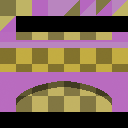
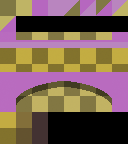
stripped some former updates, decided on a fast impl

diff --git a/sdk/examples/sandwich/sandwich_map.py b/sdk/examples/sandwich/sandwich_map.py
@@ -97,9 +97,6 @@ class Map:
 		for i,npc in enumerate(self.list_triggers_of_type(TRIGGER_NPC)):
 			npc.index = i
 			self.npc_dict[npc.id] = npc
-		for i,trapdoor in enumerate(self.list_triggers_of_type(TRIGGER_TRAPDOOR)):
-			trapdoor.index = i
-			self.trapdoor_dict[trapdoor.id] = trapdoor
 		self.doors = [Door(r) for r in self.rooms if r.portals[0] == PORTAL_DOOR]
 		for i,d in enumerate(self.doors):
 			d.index = i
@@ -163,8 +160,8 @@ class Map:
 		
 		if len(self.trapdoor_dict) > 0:
 			src.write("static const Trapdoordata %s_trapdoors[] = { " % self.id)
-			for trapdoor in self.list_triggers_of_type(TRIGGER_TRAPDOOR):
-				trapdoor.write_npc_to(src)
+			for trapdoor in self.trapdoor_dict.itervalues():
+				assert false, "dont have data yet"
 			src.write("};\n")
 		
 		if len(self.doors) > 0:

diff --git a/sdk/examples/sandwich/sandwich_trigger.py b/sdk/examples/sandwich/sandwich_trigger.py
@@ -5,12 +5,12 @@ EXP_LOCATION = re.compile(r"^(\d+),(\d+)$")
 TRIGGER_GATEWAY = 0
 TRIGGER_ITEM = 1
 TRIGGER_NPC = 2
-TRIGGER_TRAPDOOR = 3
+#TRIGGER_TRAPDOOR = 3
 KEYWORD_TO_TRIGGER_TYPE = {
 	"gateway": TRIGGER_GATEWAY,
 	"item": TRIGGER_ITEM,
-	"npc": TRIGGER_NPC,
-	"trapdoor": TRIGGER_TRAPDOOR
+	"npc": TRIGGER_NPC
+#	"trapdoor": TRIGGER_TRAPDOOR
 }
 
 
@@ -110,10 +110,5 @@ class Trigger:
 		self.write_trigger_to(src)
 		x,y = self.local_position()
 		src.write(", 0x%x, 0x%x, 0x%x }, " % (self.dialog.index, x, y))
-	
-	def write_trapdoor_to(self, src):
-		src.write("{ ")
-		self.write_trigger_to(src)
-		src.write(", 0x%x }, " % (self.respawnRoomId))
 
 

diff --git a/sdk/examples/sandwich/Map.cpp b/sdk/examples/sandwich/Map.cpp
@@ -32,10 +32,7 @@ void Map::SetData(const MapData& map) {
       }
     }
     for(const TrapdoorData* p = mData->trapdoors; p != mData->trapdoors + mData->trapdoorCount; ++p) {
-      if (pGame->GetState()->IsActive(p->trigger)) {
-        ASSERT(!mRooms[p->trigger.room].HasTrigger());
-        mRooms[p->trigger.room].SetTrigger(TRIGGER_TRAPDOOR, &p->trigger);
-      }
+      // TODO
     }
     for(const DiagonalSubdivisionData* p = mData->diagonalSubdivisions; p != mData->diagonalSubdivisions+mData->diagonalSubdivisionCount; ++p) {
       mRooms[p->roomId].SetDiagonalSubdivision(p);

diff --git a/sdk/examples/sandwich/Content.h b/sdk/examples/sandwich/Content.h
@@ -16,8 +16,7 @@ using namespace Sifteo;
 #define TRIGGER_GATEWAY     1
 #define TRIGGER_ITEM        2
 #define TRIGGER_NPC         3
-#define TRIGGER_TRAPDOOR    4
-#define TRIGGER_TYPE_COUNT  5
+#define TRIGGER_TYPE_COUNT  4
 
 #define SUBDIV_NONE         0
 #define SUBDIV_DIAG_POS     1
@@ -75,7 +74,8 @@ struct NpcData {
 };
 
 struct TrapdoorData {
-    TriggerData trigger;
+    uint8_t x : 4;
+    uint8_t y : 4;
     uint8_t respawnRoomId;
 };
 
